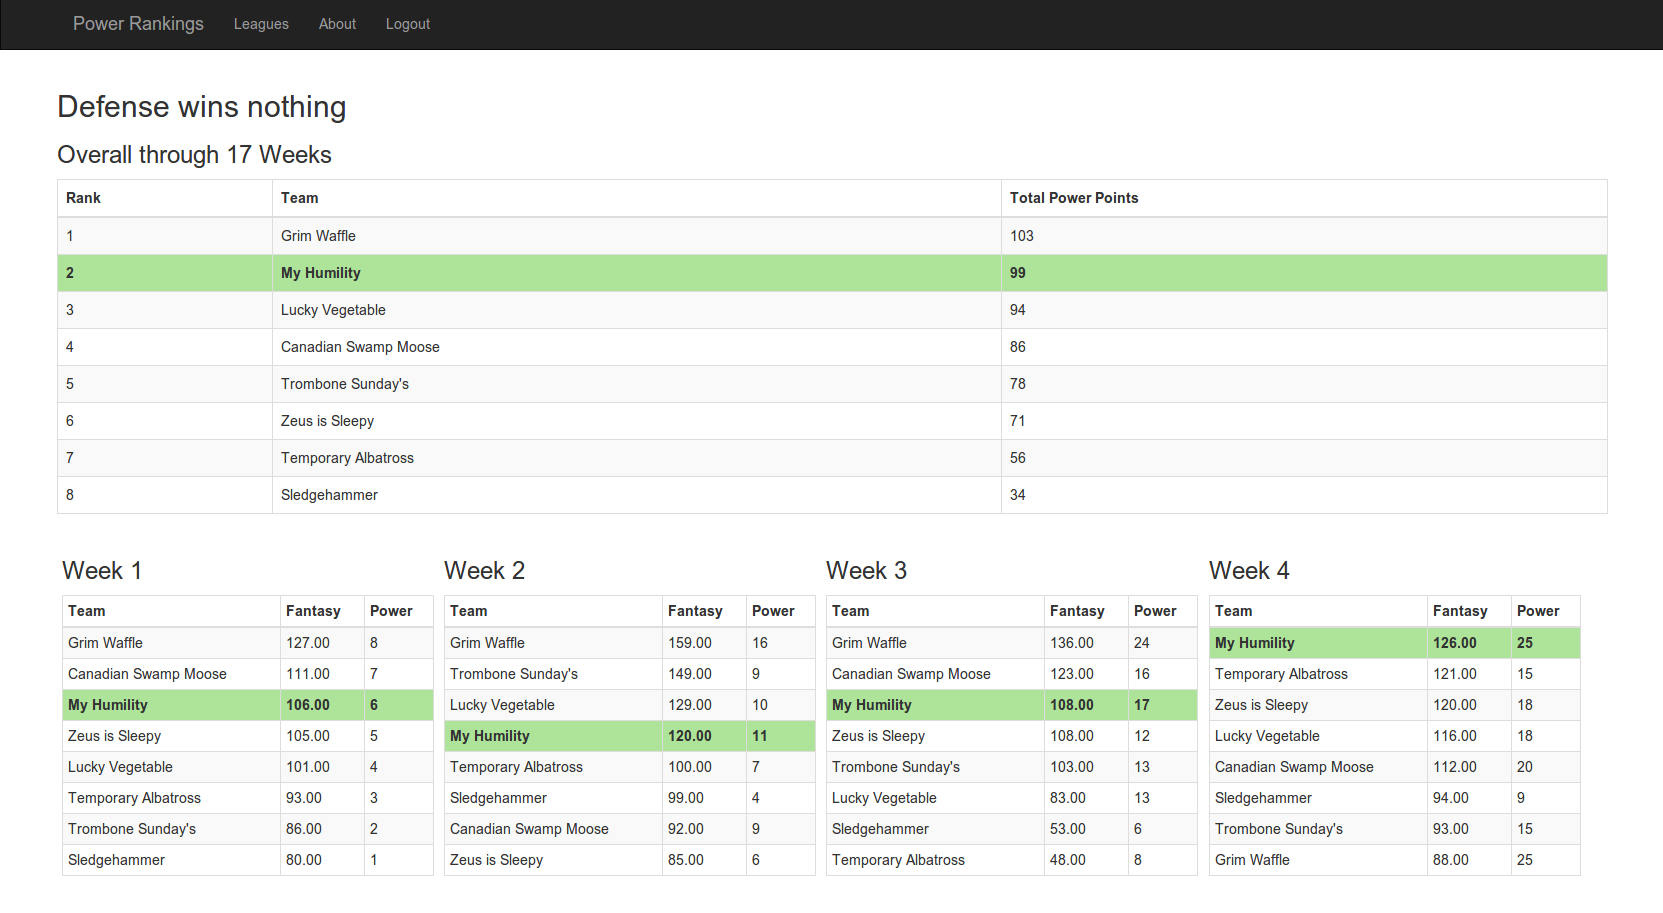
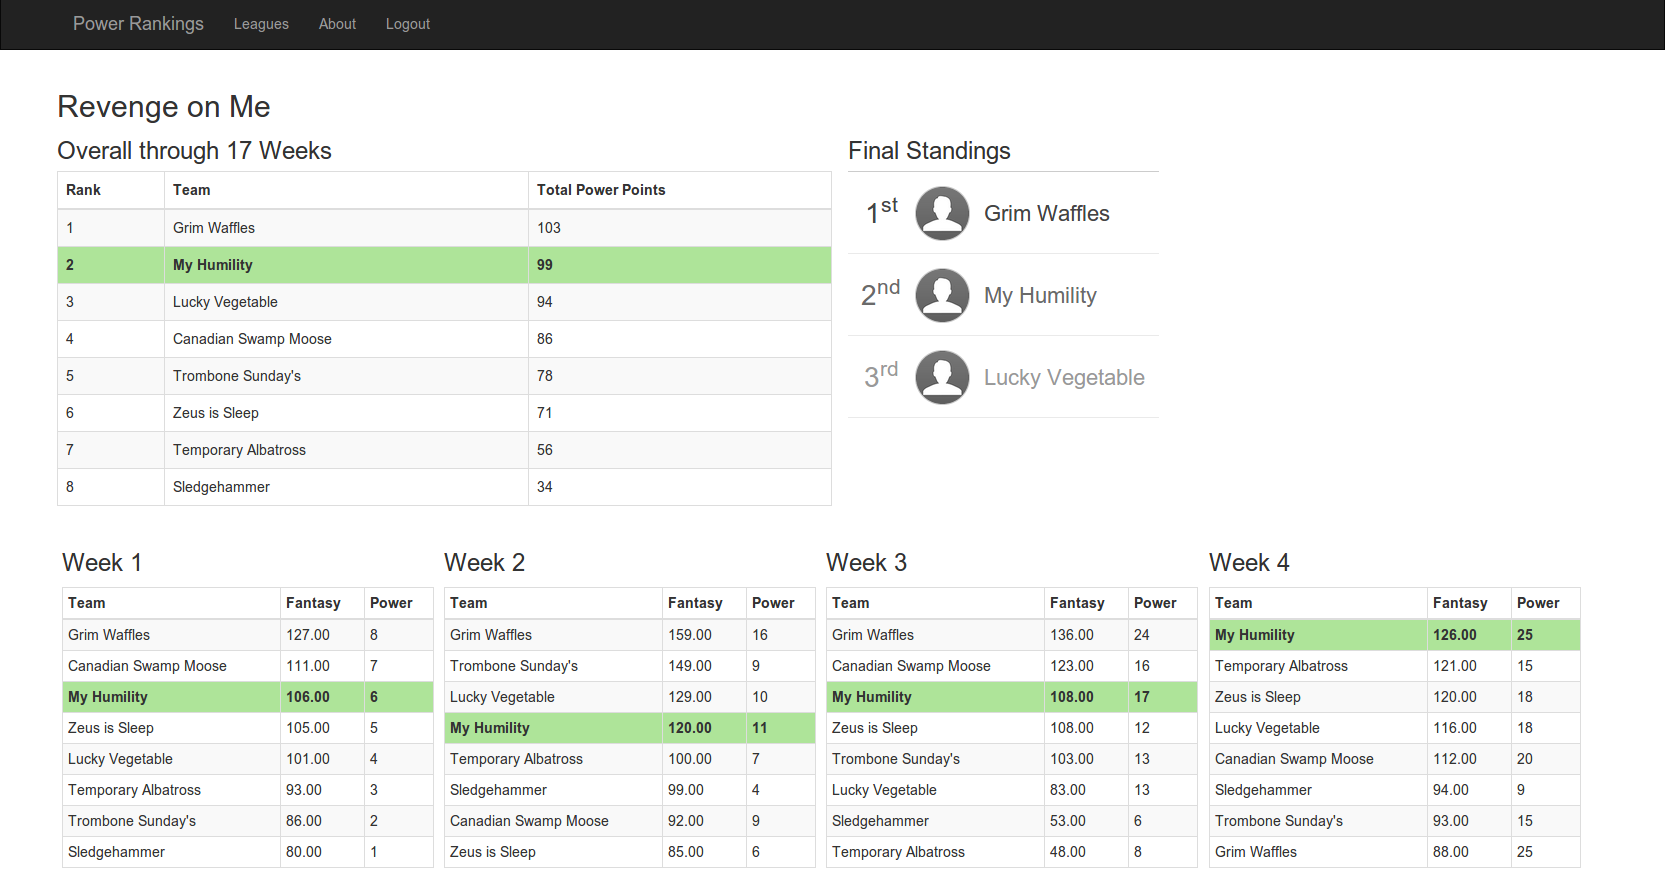
Adding podium display when season is finished.

diff --git a/templates/html/rankings.html b/templates/html/rankings.html
@@ -8,8 +8,8 @@
         {{template "nav" .}}
         <div class="container">
         {{if .}}
+            <h2>{{.League.Name}}</h2>
             <div class="overall overall-table">
-                <h2>{{.League.Name}}</h2>
                 <h3>Overall through {{.Weeks}} Weeks</h3>
                 <table class="table table-striped table-bordered">
                     <thead>
@@ -38,6 +38,53 @@
                     </tbody>
                 </table>
             </div>
+                {{if .League.IsFinished}}
+                    {{if .LeaguePowerData}}
+                        <div class="standings">
+                            <h3>Final Standings</h3>
+                            {{$firstPlace := index .LeaguePowerData.OverallRankings 0}}
+                            {{$firstPlaceLogo := index $firstPlace.Team.TeamLogos 0}}
+                            {{$secondPlace := index .LeaguePowerData.OverallRankings 1}}
+                            {{$secondPlaceLogo := index $secondPlace.Team.TeamLogos 0}}
+                            {{$thirdPlace := index .LeaguePowerData.OverallRankings 2}}
+                            {{$thirdPlaceLogo := index $thirdPlace.Team.TeamLogos 0}}
+                            <div class="first-place standing">
+                                <div class="place">
+                                    1<sup>st</sup>
+                                </div>
+                                <div class="logo">
+                                    <img src="{{$firstPlaceLogo.URL}}"/>
+                                </div>
+                                <div class="team">
+                                    {{$firstPlace.Team.Name}}
+                                </div>
+                            </div>
+                            <div class="second-place standing">
+                                <div class="place">
+                                    2<sup>nd</sup>
+                                </div>
+                                <div class="logo">
+                                    <img src="{{$secondPlaceLogo.URL}}"/>
+                                </div>
+                                <div class="team">
+                                    {{$secondPlace.Team.Name}}
+                                </div>
+                            </div>
+                            <div class="third-place standing">
+                                <div class="place">
+                                    3<sup>rd</sup>
+                                </div>
+                                <div class="logo">
+                                    <img src="{{$thirdPlaceLogo.URL}}"/>
+                                </div>
+                                <div class="team">
+                                    {{$thirdPlace.Team.Name}}
+                                </div>
+                            </div>
+                        </div>
+                    {{end}}
+                {{end}}
+                <div style="clear:both;"></div>
             {{with .LeaguePowerData}}
                 {{$allPowerData := .}}
                 {{with .ByWeek}}

diff --git a/static/css/style.css b/static/css/style.css
@@ -29,6 +29,68 @@ body {
     cursor: pointer;
 }
 
+.overall-table {
+    width: 50%;
+    float: left;
+}
+
+.overall-table h3 {
+    padding: 0.25em 0;
+    margin: 0;
+}
+
+.standings {
+    margin-left: 15px;
+    float: left;
+}
+
+.standings h3 {
+    border-bottom: 1px solid #CCC;
+    padding: 0.25em 0;
+    margin: 0;
+}
+
+.standing {
+    width: 100%;
+    border-bottom: 1px solid #EAEAEA;
+    padding: 0.75em 0.25em;
+}
+
+.standing div {
+    display: inline-block;
+    vertical-align: middle;
+}
+
+.standing img {
+    height: 55px;
+    border: 1px solid #CCC;
+    border-radius: 60px;
+}
+
+.standing .place {
+    width: 60px;
+    padding: 10px;
+    text-align: center;
+    font-size: 28px;
+}
+
+.first-place {
+    color: #444;
+}
+
+.second-place {
+    color: #6A6A6A;
+}
+
+.third-place {
+    color: #999;
+}
+
+.standing .team {
+    font-size: 22px;
+    padding: 10px;
+}
+
 .team-hover td {
     background: #DEFFD2 !important;
 }

diff --git a/templates/templates_test.go b/templates/templates_test.go
@@ -164,7 +164,63 @@ func mockWriter() io.Writer {
 }
 
 func mockLeaguePowerData() *rankings.LeaguePowerData {
-	return &rankings.LeaguePowerData{}
+	return &rankings.LeaguePowerData{
+		OverallRankings: rankings.PowerRankings{
+			&rankings.TeamPowerData{
+				AllScores: []*rankings.TeamScoreData{
+					&rankings.TeamScoreData{
+						Team:       mockTeam(),
+						Score:      12.0,
+						Rank:       1,
+						PowerScore: 36.0,
+					},
+				},
+				Team:            mockTeam(),
+				TotalPowerScore: 12.0,
+				Rank:            1,
+			},
+			&rankings.TeamPowerData{
+				AllScores: []*rankings.TeamScoreData{
+					&rankings.TeamScoreData{
+						Team:       mockTeam(),
+						Score:      12.0,
+						Rank:       1,
+						PowerScore: 36.0,
+					},
+				},
+				Team:            mockTeam(),
+				TotalPowerScore: 12.0,
+				Rank:            2,
+			},
+			&rankings.TeamPowerData{
+				AllScores: []*rankings.TeamScoreData{
+					&rankings.TeamScoreData{
+						Team:       mockTeam(),
+						Score:      12.0,
+						Rank:       1,
+						PowerScore: 36.0,
+					},
+				},
+				Team:            mockTeam(),
+				TotalPowerScore: 12.0,
+				Rank:            3,
+			},
+		},
+	}
+}
+
+func mockTeam() *goff.Team {
+	return &goff.Team{
+		TeamKey: "321",
+		TeamID:  321,
+		TeamLogos: []goff.TeamLogo{
+			goff.TeamLogo{
+				Size: "medium",
+				URL:  "http://example.com/image.png",
+			},
+		},
+		Name: "TestTeam02",
+	}
 }
 
 func mockAllLeagues() []*YearlyLeagues {
@@ -183,10 +239,11 @@ func mockAllLeagues() []*YearlyLeagues {
 func mockLeagues() []goff.League {
 	return []goff.League{
 		goff.League{
-			LeagueKey: "123",
-			LeagueID:  1,
-			Name:      "TestLeague",
-			Teams:     mockTeams(),
+			LeagueKey:  "123",
+			LeagueID:   1,
+			Name:       "TestLeague",
+			Teams:      mockTeams(),
+			IsFinished: true,
 		},
 	}
 }
@@ -210,12 +267,24 @@ func mockTeams() goff.Teams {
 			goff.Team{
 				TeamKey: "123",
 				TeamID:  123,
-				Name:    "TestTeam01",
+				TeamLogos: []goff.TeamLogo{
+					goff.TeamLogo{
+						Size: "medium",
+						URL:  "http://example.com/image.png",
+					},
+				},
+				Name: "TestTeam01",
 			},
 			goff.Team{
 				TeamKey: "321",
 				TeamID:  321,
-				Name:    "TestTeam02",
+				TeamLogos: []goff.TeamLogo{
+					goff.TeamLogo{
+						Size: "medium",
+						URL:  "http://example.com/image.png",
+					},
+				},
+				Name: "TestTeam02",
 			},
 		},
 	}

diff --git a/power-league.go b/power-league.go
@@ -3,7 +3,7 @@
 //
 // Users grant authentication from the fantasy sports provider (Yahoo) and
 // are presented with a list of their current and past leagues. Each league
-// contains a table and week-by-week breakdown of how their scors translate
+// contains a table and week-by-week breakdown of how their scores translate
 // into the alternative rankings.
 //
 // To run, this command requires a client key and secret to be passed in at
